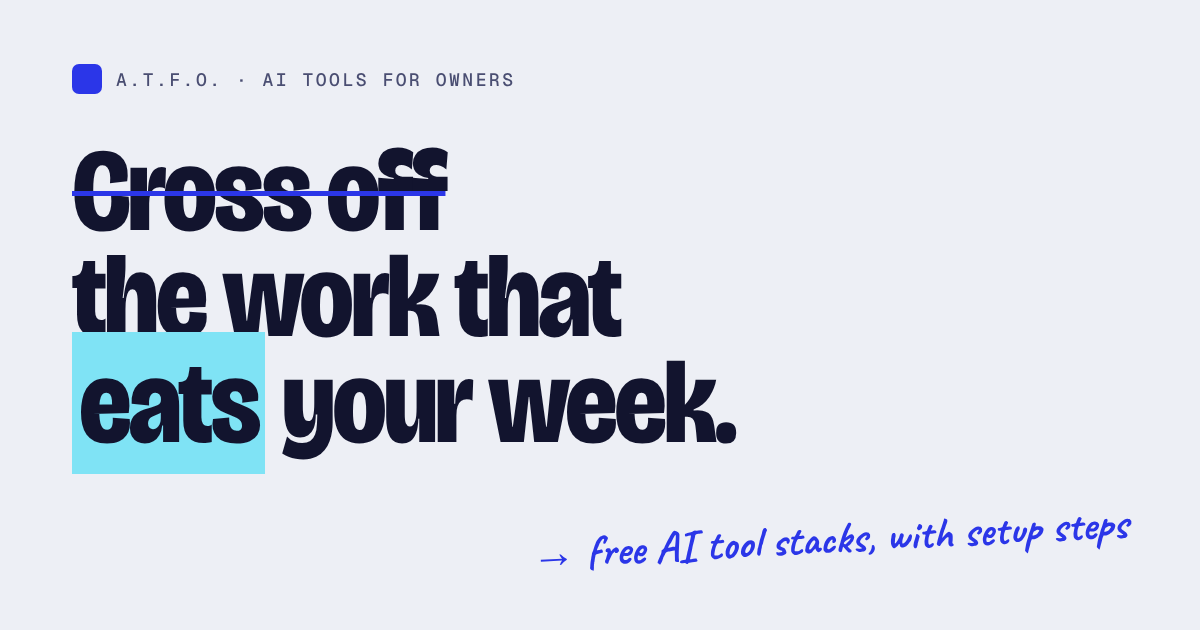
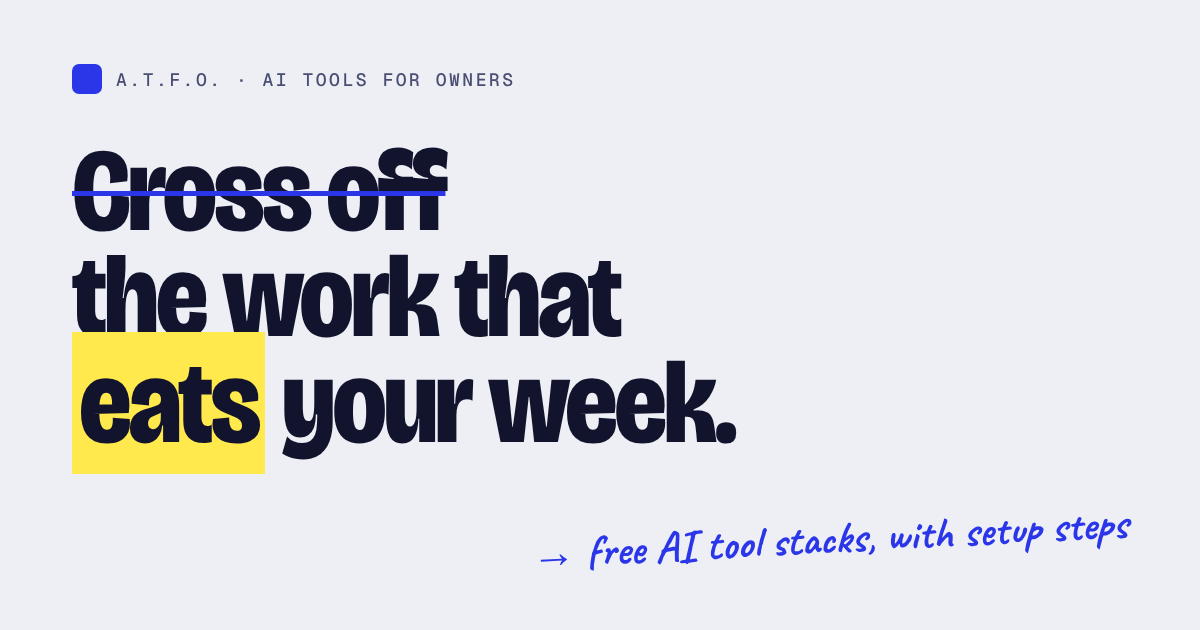
Restore the original design: blue ink and yellow highlighter
Brings back the first version's highlighter yellow and logo tick. Keeps the
business scan, FAQ, price-free homepage, newsletter kit, and the receipt
staying light paper in both themes.

Claude-Session: https://claude.ai/code/session_01BocwDevK8hzb8ZLSH9rR2p

Changed region(s): [[0.0617, 0.5127, 0.2467, 0.754]]

diff --git a/public/assets/site.css b/public/assets/site.css
@@ -3,7 +3,7 @@
    Layout: a 12-column editorial grid that breaks on purpose —
    an off-axis legal pad in the hero, a sticky week calendar,
    a hover-reveal task index and a horizontal assistant deck.
-   Ballpoint blue + cyan highlighter on cool paper.
+   Ballpoint blue + highlighter yellow on cool paper.
    ========================================================= */
 :root{
   --paper:#EDEFF5;      /* page ground, cool paper */
@@ -14,7 +14,7 @@
   --pen:#2B36E8;        /* ballpoint blue accent */
   --on-pen:#FFFFFF;
   --pen-soft:#DDE0FF;
-  --hl:#7FE3F5;         /* cyan highlighter */
+  --hl:#FFE94D;         /* highlighter yellow */
   --on-hl:#12142E;
   --band:#12142E;       /* dark band */
   --band-fg:#EDEFF5;
@@ -41,14 +41,14 @@
 @media (prefers-color-scheme:dark){
   :root:not([data-theme="light"]){
     --paper:#0B0D22;--sheet:#14173A;--ink:#E8EAF7;--ink-2:#A3A8CC;--rule:#272B55;
-    --pen:#8D96FF;--on-pen:#0B0D22;--pen-soft:#22275E;--hl:#7FE3F5;--on-hl:#12142E;
+    --pen:#8D96FF;--on-pen:#0B0D22;--pen-soft:#22275E;--hl:#FFE94D;--on-hl:#12142E;
     --band:#04050F;--band-fg:#E8EAF7;--band-2:#9599BE;--band-rule:#23264D;--red:#FF6B6F;
     color-scheme:dark;
   }
 }
 :root[data-theme="dark"]{
   --paper:#0B0D22;--sheet:#14173A;--ink:#E8EAF7;--ink-2:#A3A8CC;--rule:#272B55;
-  --pen:#8D96FF;--on-pen:#0B0D22;--pen-soft:#22275E;--hl:#7FE3F5;--on-hl:#12142E;
+  --pen:#8D96FF;--on-pen:#0B0D22;--pen-soft:#22275E;--hl:#FFE94D;--on-hl:#12142E;
   --band:#04050F;--band-fg:#E8EAF7;--band-2:#9599BE;--band-rule:#23264D;--red:#FF6B6F;
   color-scheme:dark;
 }
@@ -130,7 +130,7 @@ button,input,select{font:inherit;color:inherit}
 .logo{display:inline-flex;align-items:center;gap:10px;text-decoration:none;margin-right:auto}
 .logo__mark svg{width:30px;height:30px}
 .logo__mark rect{fill:var(--pen)}
-.logo__mark path{fill:none;stroke:var(--hl);stroke-width:3.2;stroke-linecap:round;stroke-linejoin:round;stroke-dasharray:24;stroke-dashoffset:0;transition:stroke-dashoffset .6s var(--ease)}
+.logo__mark path{fill:none;stroke:var(--paper);stroke-width:3.2;stroke-linecap:round;stroke-linejoin:round;stroke-dasharray:24;stroke-dashoffset:0;transition:stroke-dashoffset .6s var(--ease)}
 .logo:hover .logo__mark path{animation:tick .7s var(--ease)}
 @keyframes tick{from{stroke-dashoffset:24}to{stroke-dashoffset:0}}
 .logo__word{font:800 1.3rem/1 var(--f-display);letter-spacing:.04em;font-variation-settings:"wdth" 90}
@@ -520,7 +520,7 @@ button,input,select{font:inherit;color:inherit}
 .mail__head{padding:18px 22px 14px;border-bottom:1px solid #E3E6F2}
 .mail__from{display:flex;gap:10px;align-items:center;font-size:.9rem}
 .mail__from small{display:block;color:#4A4E72;font-size:.76rem}
-.mail__av{display:grid;place-items:center;width:34px;height:34px;border-radius:9px;background:#2B36E8;color:#7FE3F5;font-weight:800}
+.mail__av{display:grid;place-items:center;width:34px;height:34px;border-radius:9px;background:#2B36E8;color:#FFE94D;font-weight:800}
 .mail__subj{margin:12px 0 0;font:700 1.15rem/1.25 var(--f-display);font-variation-settings:"wdth" 90}
 .mail__body{padding:20px 22px 24px;display:grid;gap:14px}
 .mail__issue{margin:0;font:500 .7rem/1 var(--f-mono);letter-spacing:.12em;text-transform:uppercase;color:#2B36E8}
@@ -529,7 +529,7 @@ button,input,select{font:inherit;color:inherit}
 .mail__stack span{padding:6px 10px;border-radius:8px;background:#EEF0FA;font:600 .82rem/1 var(--f-body)}
 .mail__steps{margin:0;padding-left:20px;font-size:.88rem;color:#4A4E72;display:grid;gap:3px}
 .mail__prompt{padding:12px 14px;border-radius:12px;background:#12142E;color:#EDEFF5;font:400 .8rem/1.45 var(--f-mono)}
-.mail__prompt small{display:block;color:#7FE3F5;font-size:.66rem;letter-spacing:.12em;text-transform:uppercase;margin-bottom:4px}
+.mail__prompt small{display:block;color:#FFE94D;font-size:.66rem;letter-spacing:.12em;text-transform:uppercase;margin-bottom:4px}
 .mail__cta{justify-self:start;padding:10px 16px;border-radius:99px;background:#2B36E8;color:#fff;font:600 .88rem/1 var(--f-body)}
 @media (min-width:900px){.signup__grid{grid-template-columns:minmax(0,7fr) minmax(0,5fr);gap:64px}}
 

diff --git a/newsletter/out/issue-1.html b/newsletter/out/issue-1.html
@@ -41,7 +41,7 @@
   <tr><td bgcolor="#2B36E8" style="background:#2B36E8;border-radius:20px 20px 0 0;padding:26px 36px;" class="px">
     <table role="presentation" width="100%" cellpadding="0" cellspacing="0" border="0"><tr>
       <td style="font-family:'Bricolage Grotesque',Arial,Helvetica,sans-serif;font-size:24px;font-weight:800;color:#FFFFFF;letter-spacing:1px;">
-        <span style="display:inline-block;width:26px;height:26px;line-height:26px;text-align:center;background:#7FE3F5;color:#12142E;border-radius:7px;font-size:16px;vertical-align:2px;">&#10003;</span>&nbsp; A.T.F.O.
+        <span style="display:inline-block;width:26px;height:26px;line-height:26px;text-align:center;background:#FFE94D;color:#12142E;border-radius:7px;font-size:16px;vertical-align:2px;">&#10003;</span>&nbsp; A.T.F.O.
       </td>
       <td align="right" style="font-family:Arial,Helvetica,sans-serif;font-size:11px;letter-spacing:2px;text-transform:uppercase;color:#C9CEFF;">One stack. Every week.</td>
     </tr></table>
@@ -88,7 +88,7 @@
       </td></tr>
     </table>
     
-    <p style="margin:8px 0 0;font-family:Arial,Helvetica,sans-serif;font-size:14px;color:#12142E;"><span style="background:#7FE3F5;padding:3px 8px;border-radius:5px;font-weight:bold;">Ready in about 55 min</span></p>
+    <p style="margin:8px 0 0;font-family:Arial,Helvetica,sans-serif;font-size:14px;color:#12142E;"><span style="background:#FFE94D;padding:3px 8px;border-radius:5px;font-weight:bold;">Ready in about 55 min</span></p>
   </td></tr>
 
   <!-- Steps -->
@@ -119,7 +119,7 @@
   <tr><td bgcolor="#FFFFFF" style="background:#FFFFFF;padding:16px 36px 8px;" class="px">
     <table role="presentation" width="100%" cellpadding="0" cellspacing="0" border="0" bgcolor="#12142E" style="background:#12142E;border-radius:16px;">
       <tr><td style="padding:22px 24px;">
-        <p style="margin:0 0 10px;font-family:Arial,Helvetica,sans-serif;font-size:12px;letter-spacing:2px;text-transform:uppercase;color:#7FE3F5;font-weight:bold;">Steal this prompt</p>
+        <p style="margin:0 0 10px;font-family:Arial,Helvetica,sans-serif;font-size:12px;letter-spacing:2px;text-transform:uppercase;color:#FFE94D;font-weight:bold;">Steal this prompt</p>
         <p style="margin:0;font-family:'Courier New',Courier,monospace;font-size:15px;line-height:23px;color:#EDEFF5;">You&#x27;re my sales assistant. Write a friendly 3-email follow up for a lead who asked about [service]. Email 1 goes out today, email 2 in 3 days, email 3 in a week. Keep each under 90 words, sound like a real person, and end each with one easy question.</p>
         <p style="margin:12px 0 0;font-family:Arial,Helvetica,sans-serif;font-size:12px;color:#A6AACB;">Works in Claude, ChatGPT, Gemini or Grok</p>
       </td></tr>
@@ -153,7 +153,7 @@
 
   <!-- Scan promo -->
   <tr><td style="padding:16px 0 0;">
-    <table role="presentation" width="100%" cellpadding="0" cellspacing="0" border="0" bgcolor="#7FE3F5" style="background:#7FE3F5;border-radius:16px;">
+    <table role="presentation" width="100%" cellpadding="0" cellspacing="0" border="0" bgcolor="#FFE94D" style="background:#FFE94D;border-radius:16px;">
       <tr><td class="px" style="padding:22px 28px;">
         <p style="margin:0 0 6px;font-family:'Bricolage Grotesque',Arial,Helvetica,sans-serif;font-size:20px;font-weight:800;color:#12142E;">Want picks for your business?</p>
         <p style="margin:0 0 12px;font-family:Arial,Helvetica,sans-serif;font-size:15px;line-height:22px;color:#12142E;">Paste your website or Google Maps link and get a free scan of what to automate first.</p>

diff --git a/newsletter/template.html b/newsletter/template.html
@@ -41,7 +41,7 @@
   <tr><td bgcolor="#2B36E8" style="background:#2B36E8;border-radius:20px 20px 0 0;padding:26px 36px;" class="px">
     <table role="presentation" width="100%" cellpadding="0" cellspacing="0" border="0"><tr>
       <td style="font-family:'Bricolage Grotesque',Arial,Helvetica,sans-serif;font-size:24px;font-weight:800;color:#FFFFFF;letter-spacing:1px;">
-        <span style="display:inline-block;width:26px;height:26px;line-height:26px;text-align:center;background:#7FE3F5;color:#12142E;border-radius:7px;font-size:16px;vertical-align:2px;">&#10003;</span>&nbsp; A.T.F.O.
+        <span style="display:inline-block;width:26px;height:26px;line-height:26px;text-align:center;background:#FFE94D;color:#12142E;border-radius:7px;font-size:16px;vertical-align:2px;">&#10003;</span>&nbsp; A.T.F.O.
       </td>
       <td align="right" style="font-family:Arial,Helvetica,sans-serif;font-size:11px;letter-spacing:2px;text-transform:uppercase;color:#C9CEFF;">One stack. Every week.</td>
     </tr></table>
@@ -68,7 +68,7 @@
       </td></tr>
     </table>
     {{/tools}}
-    <p style="margin:8px 0 0;font-family:Arial,Helvetica,sans-serif;font-size:14px;color:#12142E;"><span style="background:#7FE3F5;padding:3px 8px;border-radius:5px;font-weight:bold;">Ready in about {{setup_total}}</span></p>
+    <p style="margin:8px 0 0;font-family:Arial,Helvetica,sans-serif;font-size:14px;color:#12142E;"><span style="background:#FFE94D;padding:3px 8px;border-radius:5px;font-weight:bold;">Ready in about {{setup_total}}</span></p>
   </td></tr>
 
   <!-- Steps -->
@@ -89,7 +89,7 @@
   <tr><td bgcolor="#FFFFFF" style="background:#FFFFFF;padding:16px 36px 8px;" class="px">
     <table role="presentation" width="100%" cellpadding="0" cellspacing="0" border="0" bgcolor="#12142E" style="background:#12142E;border-radius:16px;">
       <tr><td style="padding:22px 24px;">
-        <p style="margin:0 0 10px;font-family:Arial,Helvetica,sans-serif;font-size:12px;letter-spacing:2px;text-transform:uppercase;color:#7FE3F5;font-weight:bold;">Steal this prompt</p>
+        <p style="margin:0 0 10px;font-family:Arial,Helvetica,sans-serif;font-size:12px;letter-spacing:2px;text-transform:uppercase;color:#FFE94D;font-weight:bold;">Steal this prompt</p>
         <p style="margin:0;font-family:'Courier New',Courier,monospace;font-size:15px;line-height:23px;color:#EDEFF5;">{{text}}</p>
         {{#works_in}}<p style="margin:12px 0 0;font-family:Arial,Helvetica,sans-serif;font-size:12px;color:#A6AACB;">Works in {{.}}</p>{{/works_in}}
       </td></tr>
@@ -133,7 +133,7 @@
 
   <!-- Scan promo -->
   <tr><td style="padding:16px 0 0;">
-    <table role="presentation" width="100%" cellpadding="0" cellspacing="0" border="0" bgcolor="#7FE3F5" style="background:#7FE3F5;border-radius:16px;">
+    <table role="presentation" width="100%" cellpadding="0" cellspacing="0" border="0" bgcolor="#FFE94D" style="background:#FFE94D;border-radius:16px;">
       <tr><td class="px" style="padding:22px 28px;">
         <p style="margin:0 0 6px;font-family:'Bricolage Grotesque',Arial,Helvetica,sans-serif;font-size:20px;font-weight:800;color:#12142E;">Want picks for your business?</p>
         <p style="margin:0 0 12px;font-family:Arial,Helvetica,sans-serif;font-size:15px;line-height:22px;color:#12142E;">Paste your website or Google Maps link and get a free scan of what to automate first.</p>

diff --git a/design/og-source.html b/design/og-source.html
@@ -6,7 +6,7 @@ html,body{margin:0;width:1200px;height:630px;background:#EDEFF5;color:#12142E;ov
 .k{font:500 18px "Geist Mono";letter-spacing:.14em;text-transform:uppercase;color:#4A4E72;display:flex;gap:14px;align-items:center}
 .k i{width:30px;height:30px;border-radius:7px;background:#2B36E8;display:inline-block}
 h1{margin:44px 0 0;font-weight:800;font-size:118px;line-height:.9;letter-spacing:-.028em;font-variation-settings:"wdth" 84,"opsz" 96}
-mark{background:#7FE3F5;color:#12142E;padding:0 .06em}
+mark{background:#FFE94D;color:#12142E;padding:0 .06em}
 .n{position:absolute;right:72px;bottom:64px;font:700 44px Caveat;color:#2B36E8;transform:rotate(-3deg)}
 s{text-decoration-color:#2B36E8;text-decoration-thickness:5px}
 </style></head><body><div class="w"><div class="k"><i></i>A.T.F.O. · AI Tools For Owners</div>
